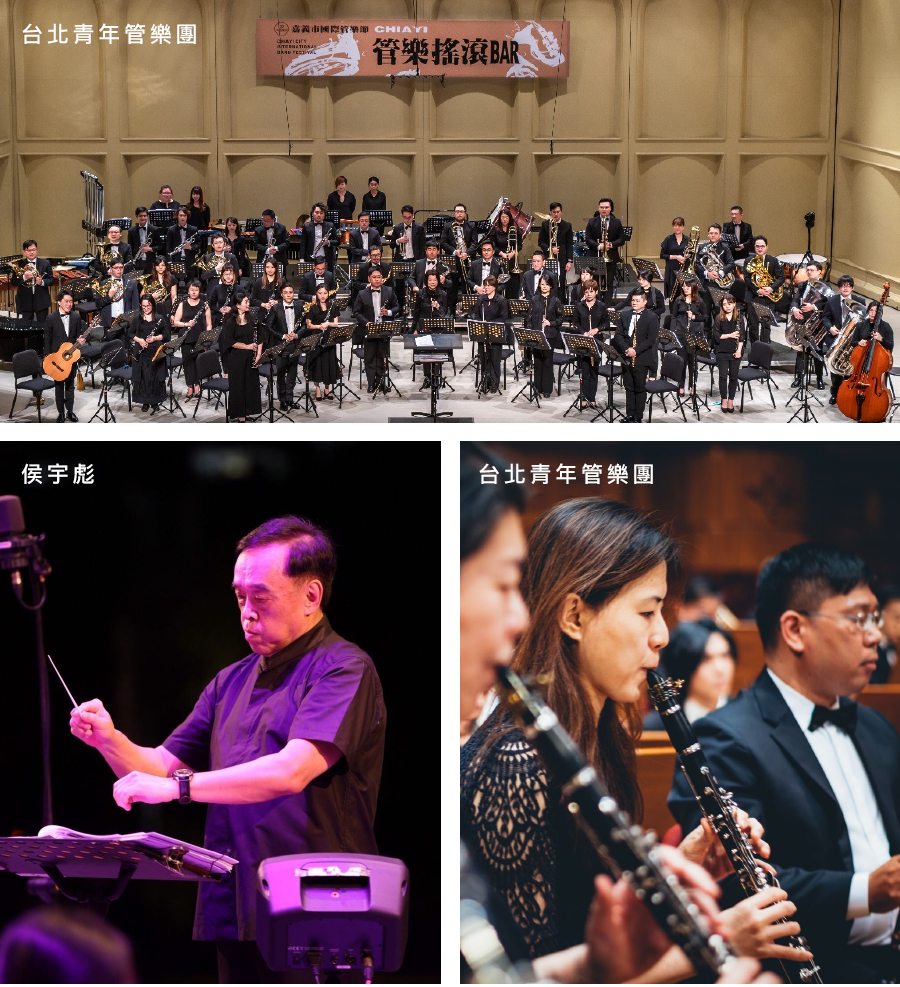
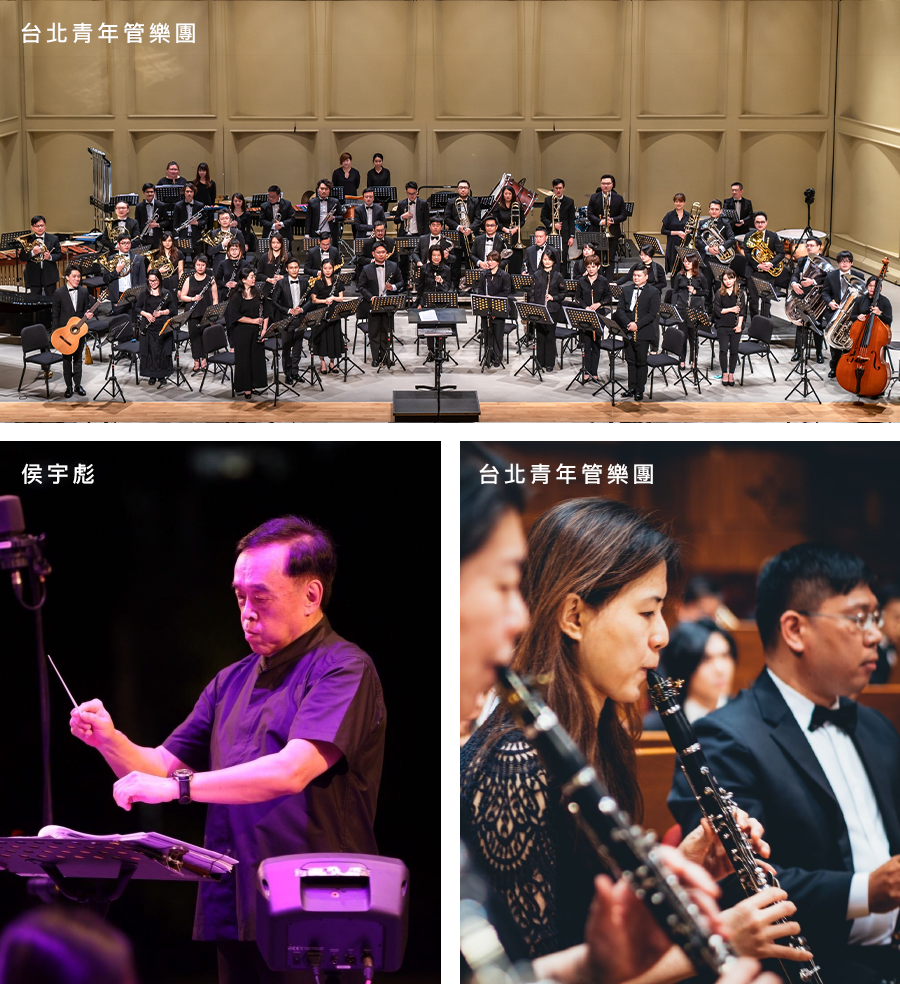
修改管樂馬拉松照片＋手機版

Changed region(s): [[0.0, 0.0, 1.0, 0.4255], [0.6844, 0.0, 0.7156, 0.0304]]

diff --git a/events.html b/events.html
@@ -244,6 +244,8 @@
                       中大壢中管樂團</br></br>
                     </span>
                   </div>
+                  </br>
+                  <img src="img/events/se01.png" alt="">
                 </div>
               </div> 
             </div>
